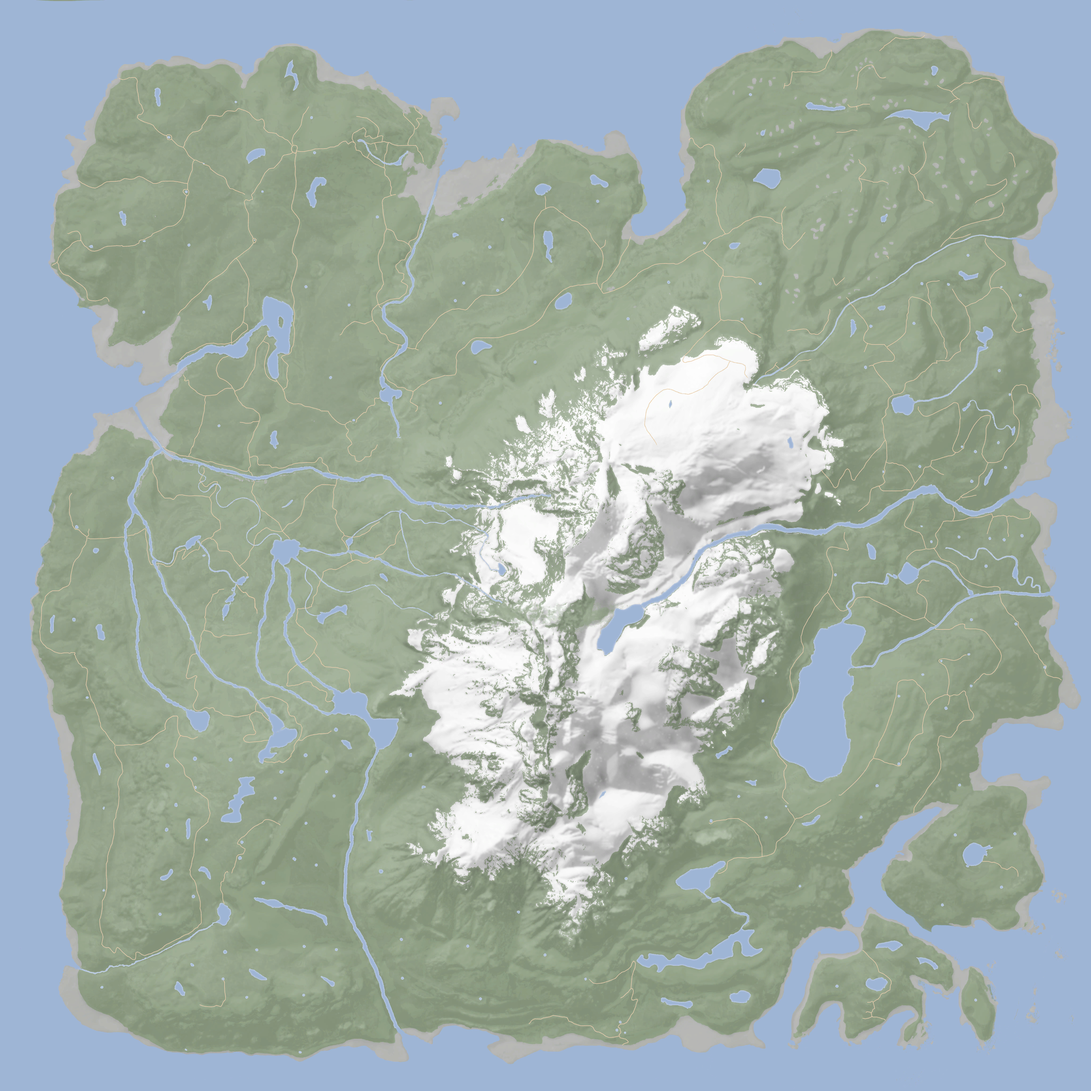
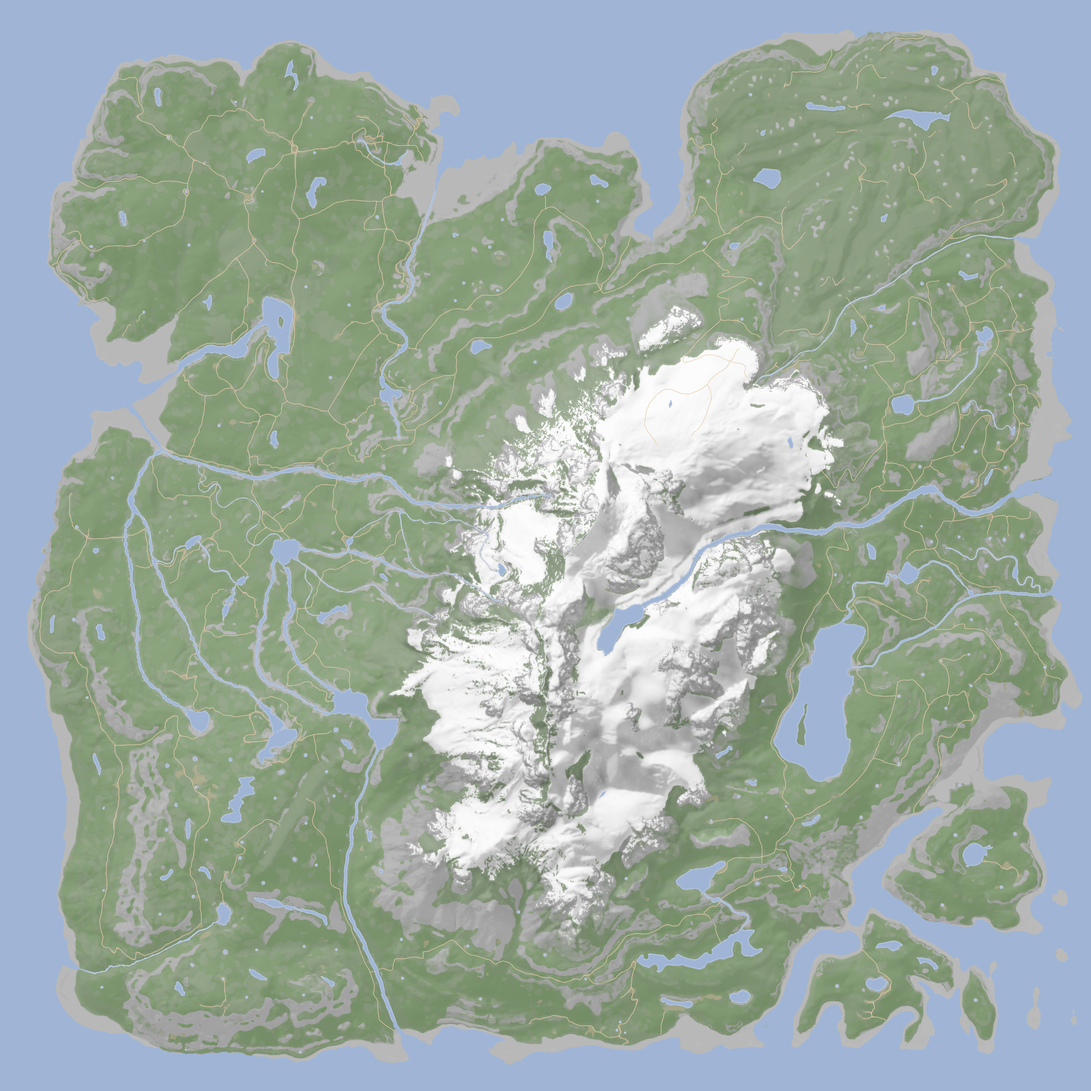
update map

diff --git a/SOTFEdit/ViewModel/MapViewModel.cs b/SOTFEdit/ViewModel/MapViewModel.cs
@@ -60,7 +60,7 @@ public partial class MapViewModel : ObservableObject
     static MapViewModel()
     {
         var converter = new BrushConverter();
-        DarkMapColorBrush = (SolidColorBrush)converter.ConvertFromString("#3d6bab")!;
+        DarkMapColorBrush = (SolidColorBrush)converter.ConvertFromString("#6186be")!;
         BrightMapColorBrush = (SolidColorBrush)converter.ConvertFromString("#9db4d4")!;
     }
 
